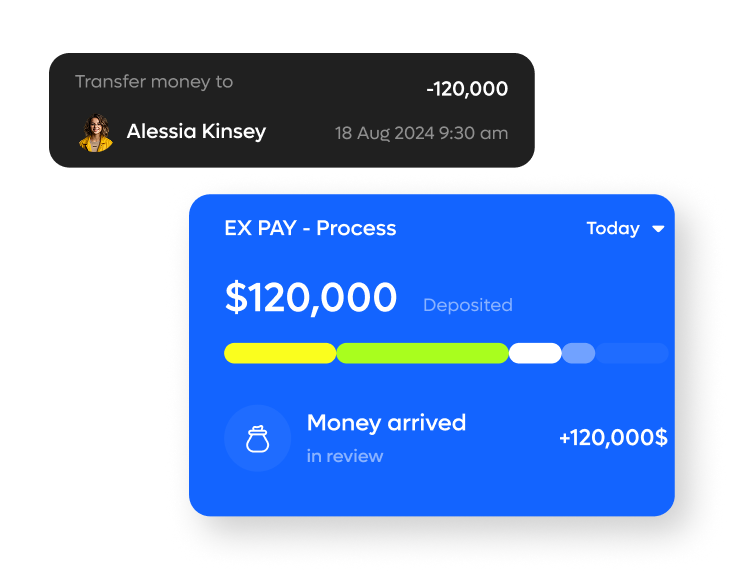
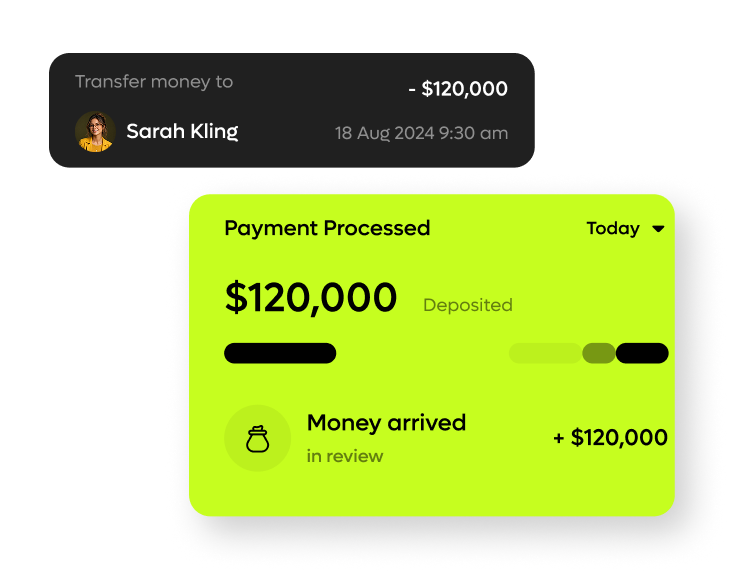
home page fix

diff --git a/frontend/src/components/Features.tsx b/frontend/src/components/Features.tsx
@@ -23,10 +23,10 @@ const Features = () => {
         <div className="grid gap-4 md:grid-cols-[930fr_860fr]">
           {/* Two rows of equal height, as in Figma. A flex column shared the
               height out by content instead: 631px and 533px at 1920. */}
-          <div className="grid min-w-0 grid-rows-[1fr_1fr] gap-4 md:gap-[26px]">
+          <div className="flex flex-col gap-4 md:gap-[26px]">
             {/* Reports & Insights */}
             <div
-              className="flex flex-col justify-center gap-4 min-h-[280px] rounded-[20px] p-6 sm:min-h-[360px] sm:gap-6 sm:rounded-[40px] sm:p-10 md:rounded-[60px] lg:rounded-[80px] xl:justify-start xl:gap-[31px] xl:pb-12 xl:pl-[84px] xl:pr-12 xl:pt-[99px]"
+              className="flex flex-col justify-center gap-4 rounded-[20px] p-16 py-[100px] sm:gap-6 sm:rounded-[40px]  md:rounded-[60px] lg:rounded-[80px] xl:justify-start "
               style={{ backgroundColor: "rgb(24, 24, 26)" }}
             >
               <h2
@@ -36,7 +36,7 @@ const Features = () => {
                 Reports & Insights
               </h2>
               <p
-                className="font-lufga max-w-[668px] text-base sm:text-lg lg:text-xl xl:text-2xl"
+                className="font-lufga max-w-[668px] text-base sm:text-base lg:text-lg xl:text-base"
                 style={{ fontWeight: 400, lineHeight: 1.5, color: "rgba(255, 255, 255, 0.5)" }}
               >
                 Our detailed dashboard insights clear up most questions early on — so you can focus on what really matters. With key metrics presented clearly, users spend less time searching and more time deciding
@@ -45,18 +45,17 @@ const Features = () => {
 
             {/* Download the app */}
             <div
-              className="flex items-center justify-center overflow-hidden min-h-[300px] rounded-[20px] p-6 sm:min-h-[400px] sm:rounded-[40px] md:min-h-[460px] md:rounded-[60px] lg:rounded-[80px]"
-              style={{ backgroundColor: "#1364ff" }}
+              className="flex items-center justify-center overflow-hidden rounded-[20px] p-6 sm:rounded-[40px]  md:rounded-[60px] lg:rounded-[80px]"
+              style={{ backgroundColor: "#D6D6D6" }}
             >
               <img
                 src={downloadAppCard}
                 alt="Download Mobile App"
-                width={370}
-                height={411}
+              
                 // Full width up to its designed 370px. A fixed 370px width
                 // kept the column from narrowing, so on a phone the whole
                 // section ran off the right edge of the screen.
-                className="block h-auto w-full max-w-[370px]"
+                className="block h-auto w-full max-w-[300px]"
                 loading="lazy"
                 decoding="async"
               />
@@ -66,8 +65,8 @@ const Features = () => {
           {/* The app on lime. The card keeps Figma's 860:1190 shape, and
               stretches with the row when the cards beside it need more room. */}
           <div
-            className="relative w-full min-w-0 aspect-[860/1190] overflow-hidden rounded-[20px] sm:rounded-[40px] md:self-stretch md:rounded-[60px] lg:rounded-[80px]"
-            style={{ backgroundColor: "#c6fe1e" }}
+            // className="relative w-full min-w-0 aspect-[860/1190] overflow-hidden rounded-[20px] sm:rounded-[40px] md:self-stretch md:rounded-[60px] lg:rounded-[80px]"
+            // style={{ backgroundColor: "#c6fe1e" }}
           >
             {/* Anchored to the bottom: the phone's shadow runs off the
                 bottom and right edges, so any spare room has to go at the
@@ -76,11 +75,7 @@ const Features = () => {
             <img
               src={reportsPhone}
               alt="Reports & Insights App"
-              width={860}
-              height={1190}
-              className="absolute inset-0 h-full w-full object-contain object-bottom"
-              loading="lazy"
-              decoding="async"
+             
             />
           </div>
         </div>

diff --git a/frontend/src/components/Footer.tsx b/frontend/src/components/Footer.tsx
@@ -10,7 +10,8 @@ import {
   DropdownMenuItem,
   DropdownMenuTrigger,
 } from "@/components/ui/dropdown-menu";
-
+import { Currency,Language } from "@/assets/svg";
+import cardimg from "@/assets/payment-list.png";
 /* The card marks under the blurb. Drawn here rather than imported — there are
    no payment SVGs in assets/, and four tiny tiles are not worth four files.
    Swap in the real brand artwork when it arrives. */
@@ -97,7 +98,7 @@ const LANGUAGES = ["English"];
 const FooterLanguageSelect = () => (
   <DropdownMenu>
     <DropdownMenuTrigger
-      className="inline-flex items-center gap-2 rounded-full border border-white/20 bg-white/[0.06] pl-3 pr-2 py-1.5 focus:outline-none"
+      className="inline-flex items-center justify-between w-[150px] gap-2 rounded-full border border-white/20 bg-white/[0.06] pl-3 pr-2 py-1.5 focus:outline-none"
       aria-label="Language"
     >
       <UnionFlag />
@@ -155,10 +156,11 @@ const Footer = () => {
               next venture or selling the one you built, EX makes it simple.
             </p>
             <div className="mt-6 flex items-center gap-2">
-              <VisaMark />
-              <MastercardMark />
-              <MaestroMark />
-              <AmexMark />
+              <img
+                src={cardimg}
+                alt="Archived Chats"
+                className="h-6 w-auto"
+              />
             </div>
           </div>
 
@@ -199,9 +201,9 @@ const Footer = () => {
                 type="email"
                 placeholder="Email Address"
                 aria-label="Email Address"
-                className="w-full rounded-full border border-white/20 bg-white/[0.06] py-3 pl-4 pr-[124px] font-lufga text-[14px] text-white placeholder:text-white/40 focus:outline-none focus:border-[#C6FE1F]"
+                className="w-full rounded-md border border-white/20 bg-white/[0.06] py-3 pl-4 pr-[124px] font-lufga text-[14px] text-white placeholder:text-white/40 focus:outline-none focus:border-[#C6FE1F]"
               />
-              <Button className="absolute right-1.5 top-1.5 bottom-1.5 h-auto rounded-full bg-[#C6FE1F] px-4 py-0 font-lufga text-[13px] font-medium text-black hover:bg-[#C6FE1F]/90">
+              <Button className="absolute right-1.5 top-1.5 bottom-1.5 h-auto rounded-md bg-[#C6FE1F] px-4 py-0 font-lufga text-[13px] font-medium text-black hover:bg-[#C6FE1F]/90">
                 <span>Subscribe</span>
                 <Send className="ml-1.5 h-3.5 w-3.5" />
               </Button>
@@ -212,16 +214,16 @@ const Footer = () => {
           <div className="lg:col-span-2">
             <div className="mb-5">
               <div className="mb-2 flex items-center gap-2">
-                <Globe className="h-4 w-4 text-[#C6FE1F]" />
+                <Currency className="h-4 w-4 text-[#C6FE1F]" />
                 <span className="font-lufga text-[14px] text-white">Currency</span>
               </div>
               {/* The same choice as the menu bar makes: changing either changes both. */}
-              <HeaderCurrencySelect onDark infoSide="top" variant="footer" />
+              <HeaderCurrencySelect  onDark infoSide="top" variant="footer" />
             </div>
 
             <div className="mb-6">
               <div className="mb-2 flex items-center gap-2">
-                <Languages className="h-4 w-4 text-[#C6FE1F]" />
+                <Language className="h-4 w-4 text-[#C6FE1F]" />
                 <span className="font-lufga text-[14px] text-white">Language</span>
               </div>
               <FooterLanguageSelect />

diff --git a/frontend/src/components/HeaderCurrencySelect.tsx b/frontend/src/components/HeaderCurrencySelect.tsx
@@ -50,16 +50,18 @@ export const HeaderCurrencySelect = ({
 
   return (
     <div
-      className="inline-flex items-center gap-1 rounded-full pl-3 pr-2 py-1.5"
+      className="inline-flex items-center justify-between gap-1 rounded-full pl-3 pr-2 py-1.5"
       style={{
         background: isFooter ? "rgba(255, 255, 255, 0.06)" : "#D8D8D8",
         border: isFooter ? "1px solid rgba(255, 255, 255, 0.2)" : undefined,
         color: isFooter ? "#FFFFFF" : "#000000",
+        width: isFooter ? "150px" : undefined,
+        display: "inline-flex",
       }}
     >
       <DropdownMenu>
         <DropdownMenuTrigger
-          className="flex items-center gap-1 focus:outline-none"
+          className="flex items-center justify-between w-full gap-1 focus:outline-none"
           aria-label="Currency to show prices in"
         >
           <span
@@ -67,7 +69,7 @@ export const HeaderCurrencySelect = ({
           >
             {code} {symbol !== code ? symbol : ""}
           </span>
-          <ChevronDown className="h-3.5 w-3.5 shrink-0 opacity-70" />
+         <ChevronDown className="h-3 w-3" />
         </DropdownMenuTrigger>
         <DropdownMenuContent align="end" className="max-h-80 w-40 overflow-y-auto">
           {HEADER_CURRENCIES.map((option, index) => {
@@ -90,9 +92,9 @@ export const HeaderCurrencySelect = ({
         </DropdownMenuContent>
       </DropdownMenu>
 
-      <InfoHint label="About currencies" side={infoSide}>
+          {isFooter ?  null  :  <InfoHint label="About currencies" side={infoSide}>
         {CURRENCY_CHOICE_NOTE}
-      </InfoHint>
+      </InfoHint>}
     </div>
   );
 };

diff --git a/frontend/src/assets/svg/index.js b/frontend/src/assets/svg/index.js
@@ -57,7 +57,8 @@ import Svg11Black from "./11black.svg?react"
 import Svg12Black from "./12black.svg?react"
 import UserLock from "./userlock.svg?react"
 import LockNew from "./locknew.svg?react"
-
+import Currency from "./currency.svg?react"
+import Language from "./language.svg?react"
 
 export {
   AccountsSvg,
@@ -118,5 +119,7 @@ export {
   Svg11Black,
   Svg12Black,
   UserLock,
-  LockNew
+  LockNew,
+  Currency,
+  Language
 };

diff --git a/frontend/src/components/Hero.tsx b/frontend/src/components/Hero.tsx
@@ -10,7 +10,7 @@ import heroCard3 from "@/assets/hero-card-3.png";
 import { ArrowUpSvg } from "@/assets/svg";
 import { Slider } from "./ui/slider";
 import {
-  Select,
+  Select, 
   SelectContent,
   SelectItem,
   SelectTrigger,
